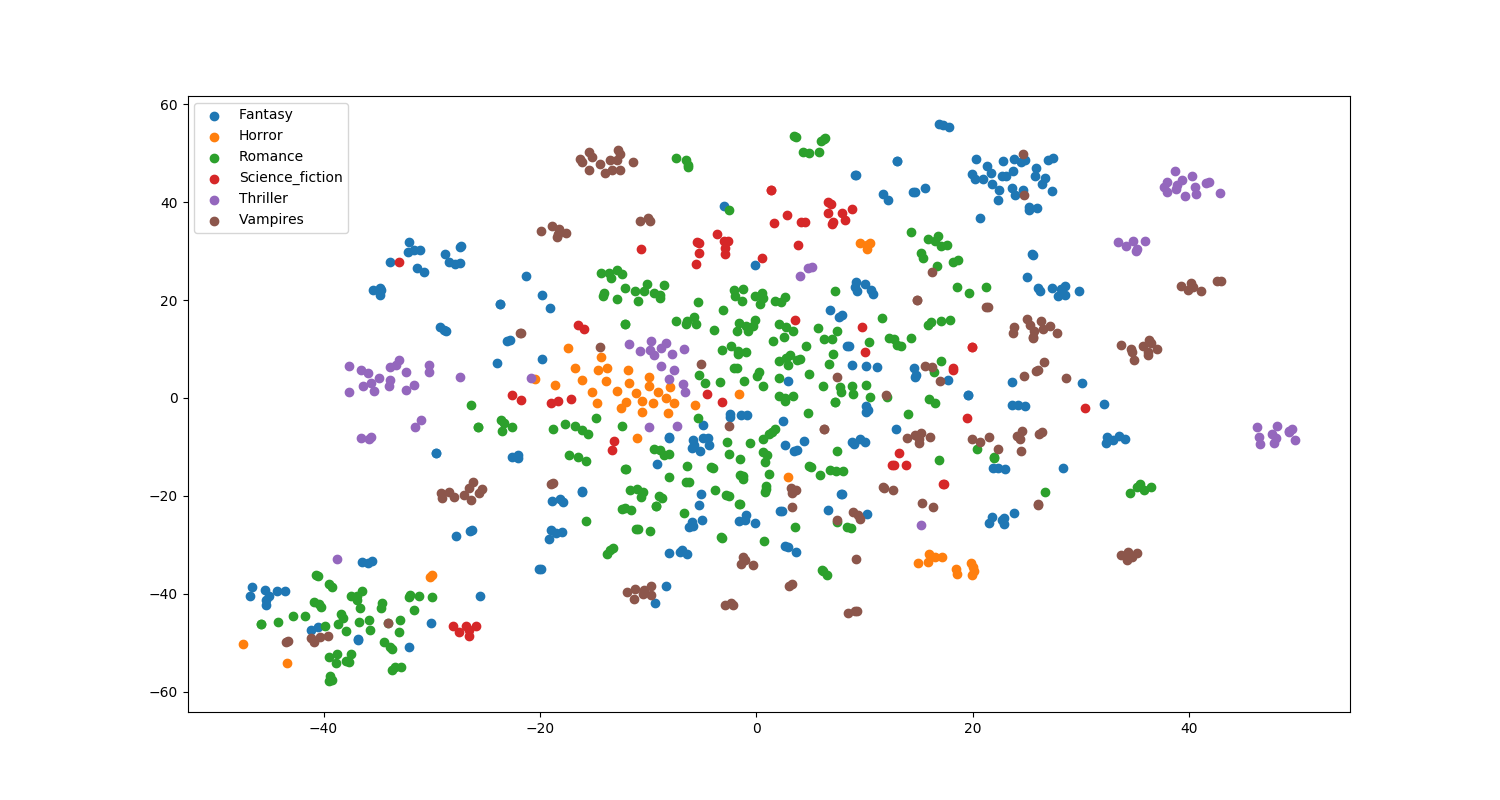
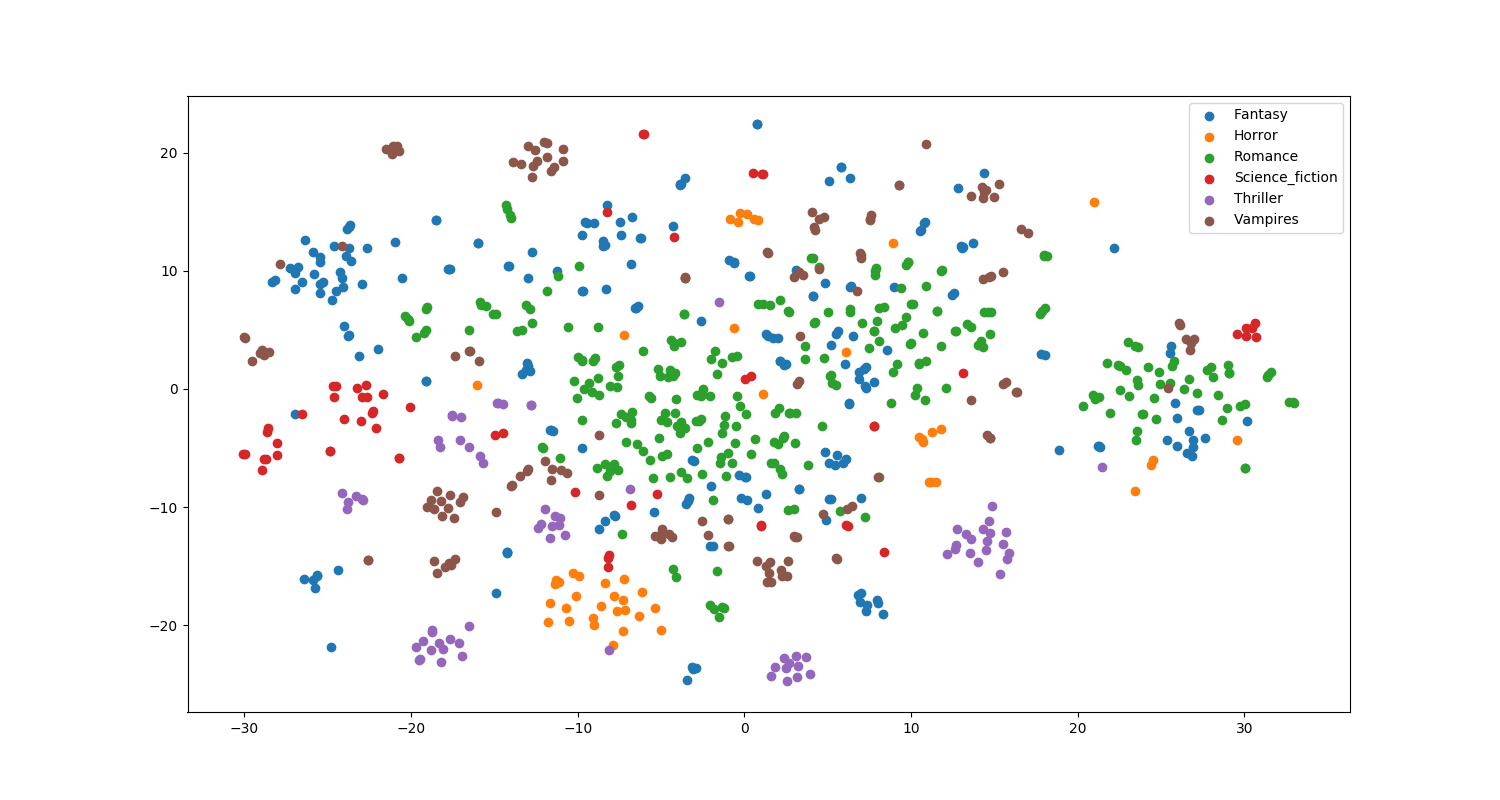
initial commit

diff --git a/scripts/book2vec_scatter.py b/scripts/book2vec_scatter.py
@@ -25,7 +25,7 @@ vec_size = 300
 if not load:
     model = Doc2Vec.load('../models/mymodel_'+str(vec_size)+'.doc2vec')
     #tsne_model_2D = TSNE(n_components=2, random_state=0, verbose=1, init="pca", n_iter=10000, perplexity=50)
-    tsne_model_2D = TSNE(n_components=2, n_iter=10000, perplexity=30)
+    tsne_model_2D = TSNE(n_components=2, n_iter=10000, perplexity=100)
     tsne_articles_2D = tsne_model_2D.fit_transform(model.docvecs.vectors_docs)
     np.save('../models/tsne2D_'+str(vec_size)+'.npy', tsne_articles_2D)
 

diff --git a/scripts/book2vec.py b/scripts/book2vec.py
@@ -29,7 +29,7 @@ print('Total number of words: ' + str(words))
 
 cores = multiprocessing.cpu_count()
 
-vec_size = 300
+vec_size = 50
 
 model = Doc2Vec(size = vec_size, min_count = 5, workers=cores, alpha = 0.025, min_alpha=0.025, iter=10)
 #model = Doc2Vec(size = 300, min_count = 5, workers=cores, iter = 10)
